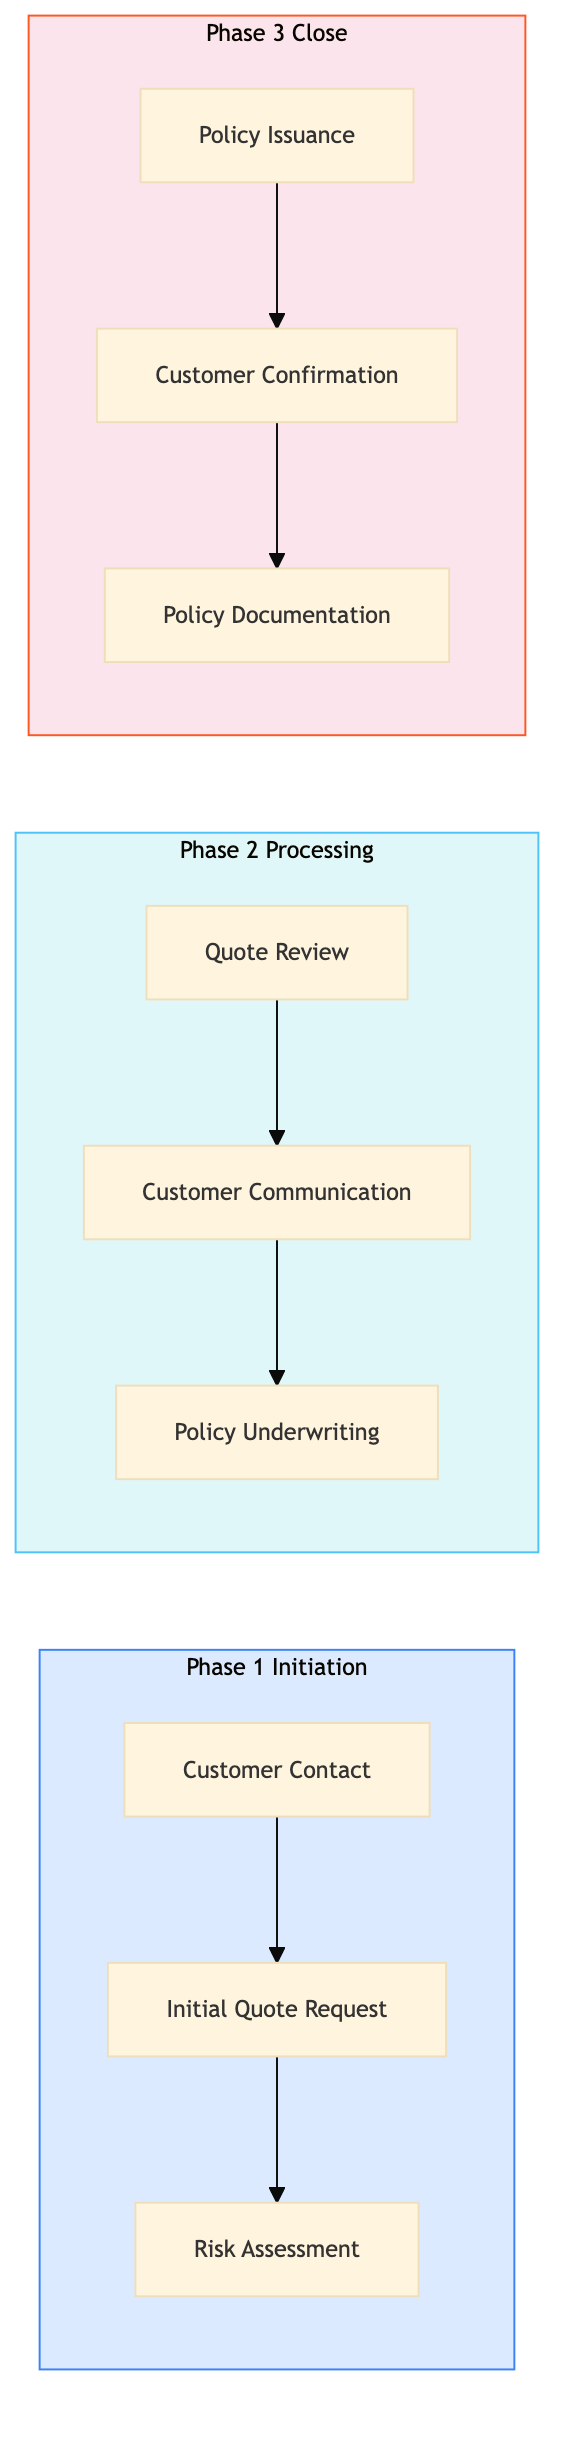
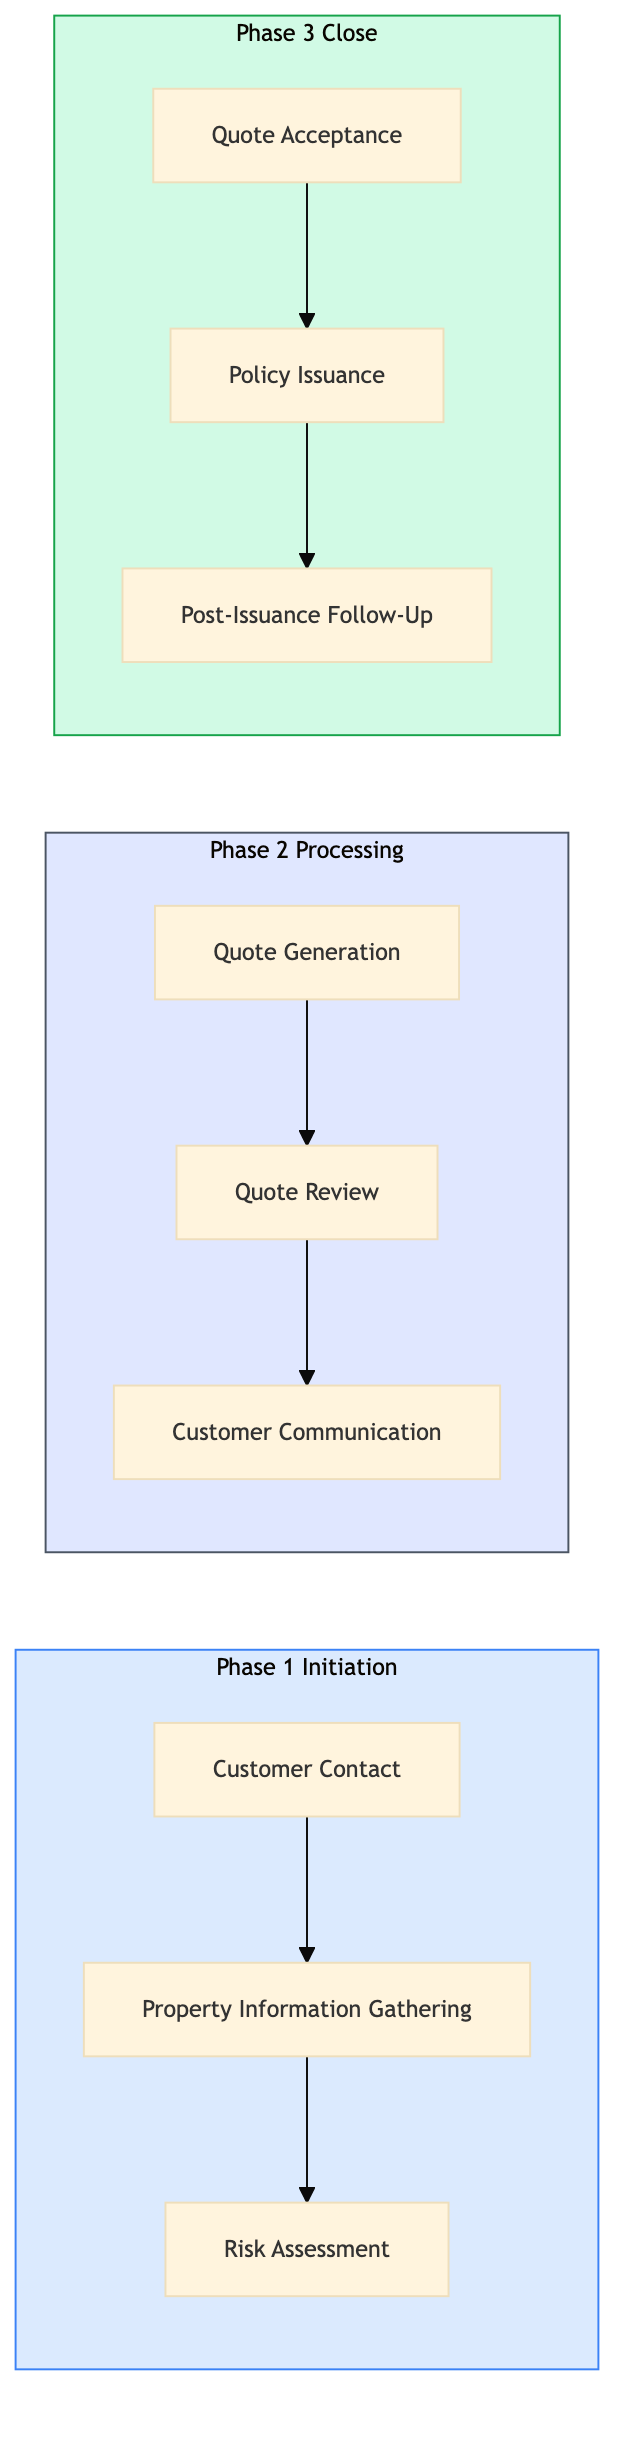
feat: add AAA-IN-QU-09 — Home Insurance Quote and Property Risk Assessment

diff --git a/aaa-insurance/insurance-quoting/aaa-in-qu-09.html b/aaa-insurance/insurance-quoting/aaa-in-qu-09.html
@@ -23,40 +23,16 @@
     <div class="nav-l2-group">
       <a class="nav-l2-title" href="../../shared-membership/membership-enrolment/index.html">Membership Enrolment & Sales</a>
       <div class="nav-l3-list">
-        <a class="nav-l3" href="../../shared-membership/membership-enrolment/shared-mb-en-01.html">SHARED-MB-EN-01 &mdash; New Member Walk-In Enrolment (Branch)</a>
-        <a class="nav-l3" href="../../shared-membership/membership-enrolment/shared-mb-en-02.html">SHARED-MB-EN-02 &mdash; Online Membership Self-Enrolment (Web/Ap</a>
-        <a class="nav-l3" href="../../shared-membership/membership-enrolment/shared-mb-en-03.html">SHARED-MB-EN-03 &mdash; Phone Enrolment via Contact Centre</a>
-        <a class="nav-l3" href="../../shared-membership/membership-enrolment/shared-mb-en-04.html">SHARED-MB-EN-04 &mdash; Affiliate and Employer Group Enrolment</a>
-        <a class="nav-l3" href="../../shared-membership/membership-enrolment/shared-mb-en-05.html">SHARED-MB-EN-05 &mdash; Membership Tier Selection and Upsell</a>
-        <a class="nav-l3" href="../../shared-membership/membership-enrolment/shared-mb-en-06.html">SHARED-MB-EN-06 &mdash; Payment Processing and First-Year Billin</a>
-        <a class="nav-l3" href="../../shared-membership/membership-enrolment/shared-mb-en-07.html">SHARED-MB-EN-07 &mdash; Welcome Kit and Digital Card Issuance</a>
-        <a class="nav-l3" href="../../shared-membership/membership-enrolment/shared-mb-en-08.html">SHARED-MB-EN-08 &mdash; Duplicate Member Detection and Merge</a>
       </div>
     </div>
     <div class="nav-l2-group">
       <a class="nav-l2-title" href="../../shared-membership/membership-renewal/index.html">Membership Renewal & Retention</a>
       <div class="nav-l3-list">
-        <a class="nav-l3" href="../../shared-membership/membership-renewal/shared-mb-rn-01.html">SHARED-MB-RN-01 &mdash; Annual Renewal Notice Generation and Dis</a>
-        <a class="nav-l3" href="../../shared-membership/membership-renewal/shared-mb-rn-02.html">SHARED-MB-RN-02 &mdash; Auto-Renewal Processing (Credit Card on </a>
-        <a class="nav-l3" href="../../shared-membership/membership-renewal/shared-mb-rn-03.html">SHARED-MB-RN-03 &mdash; Lapsed Member Reinstatement Campaign</a>
-        <a class="nav-l3" href="../../shared-membership/membership-renewal/shared-mb-rn-04.html">SHARED-MB-RN-04 &mdash; Membership Upgrade and Tier Change Proce</a>
-        <a class="nav-l3" href="../../shared-membership/membership-renewal/shared-mb-rn-05.html">SHARED-MB-RN-05 &mdash; Associate and Household Member Add-On Pr</a>
-        <a class="nav-l3" href="../../shared-membership/membership-renewal/shared-mb-rn-06.html">SHARED-MB-RN-06 &mdash; Cancellation Request Handling and Save O</a>
-        <a class="nav-l3" href="../../shared-membership/membership-renewal/shared-mb-rn-07.html">SHARED-MB-RN-07 &mdash; Renewal Rate Review and Pricing Update</a>
-        <a class="nav-l3" href="../../shared-membership/membership-renewal/shared-mb-rn-08.html">SHARED-MB-RN-08 &mdash; Membership Winback Campaign (12-36 Month</a>
       </div>
     </div>
     <div class="nav-l2-group">
       <a class="nav-l2-title" href="../../shared-membership/member-services/index.html">Member Services & Benefits</a>
       <div class="nav-l3-list">
-        <a class="nav-l3" href="../../shared-membership/member-services/shared-mb-sv-01.html">SHARED-MB-SV-01 &mdash; Member Discount Partner Redemption</a>
-        <a class="nav-l3" href="../../shared-membership/member-services/shared-mb-sv-02.html">SHARED-MB-SV-02 &mdash; Passport Photo Service Delivery (Branch)</a>
-        <a class="nav-l3" href="../../shared-membership/member-services/shared-mb-sv-03.html">SHARED-MB-SV-03 &mdash; International Driving Permit (IDP) Proce</a>
-        <a class="nav-l3" href="../../shared-membership/member-services/shared-mb-sv-04.html">SHARED-MB-SV-04 &mdash; Notary and Document Authentication Servi</a>
-        <a class="nav-l3" href="../../shared-membership/member-services/shared-mb-sv-05.html">SHARED-MB-SV-05 &mdash; Member Portal Profile and Preferences Ma</a>
-        <a class="nav-l3" href="../../shared-membership/member-services/shared-mb-sv-06.html">SHARED-MB-SV-06 &mdash; Lost and Stolen Membership Card Replacem</a>
-        <a class="nav-l3" href="../../shared-membership/member-services/shared-mb-sv-07.html">SHARED-MB-SV-07 &mdash; Member Data Privacy Request (CCPA and PI</a>
-        <a class="nav-l3" href="../../shared-membership/member-services/shared-mb-sv-08.html">SHARED-MB-SV-08 &mdash; Member Satisfaction Survey and NPS Track</a>
       </div>
     </div>
   </div>
@@ -286,7 +262,7 @@
           <span class="pid-badge org-badge-aaa">AAA</span>
           AAA-IN-QU-09 &mdash; Home Insurance Quote and Property Risk Assessment
         </h1>
-        <p>The Home Insurance Quote and Property Risk Assessment process involves gathering customer information, conducting risk assessments, generating quotes, and underwriting home insurance policies for AAA Northeast members.</p>
+        <p>The process for generating home insurance quotes and conducting property risk assessments for AAA Northeast.</p>
       </div>
 
       <!-- BPMN Diagram -->
@@ -313,9 +289,9 @@
             <tr><th>L2 Process</th><td>Quoting & Underwriting</td></tr>
             <tr><th>L3 Name</th><td>Home Insurance Quote and Property Risk Assessment</td></tr>
             <tr><th>Trigger</th><td>A customer contacts an AAA Northeast Licensed Insurance Agent to inquire about home insurance coverage.</td></tr>
-            <tr><th>Outcome</th><td>Successful completion produces a personalized home insurance quote with terms and conditions, ready for the customer's review and potential purchase.</td></tr>
-            <tr><th>Org Notes</th><td>AAA Northeast focuses on leveraging Guidewire Cloud for policy management and Salesforce for customer interactions. The process emphasizes quick turnaround times and high accuracy in risk assessment to meet customer expectations.</td></tr>
-            <tr><th>Systems</th><td><span class="sys-tag guidewire">Guidewire PolicyCenter</span> <span class="sys-tag salesforce">Salesforce</span> <span class="sys-tag verisk">Verisk ISO rating</span></td></tr>
+            <tr><th>Outcome</th><td>Successful completion produces a detailed home insurance quote, including premium rates and coverage details, as well as a property risk assessment report.</td></tr>
+            <tr><th>Org Notes</th><td>AAA Northeast focuses on providing comprehensive home insurance quotes with real-time data integration from various systems. The process is heavily reliant on Guidewire Cloud for quoting and underwriting, ensuring quick turnaround times and accurate assessments.</td></tr>
+            <tr><th>Systems</th><td><span class="sys-tag guidewire">Guidewire PolicyCenter</span> <span class="sys-tag salesforce">Salesforce (Einstein AI, Agentforce)</span> <span class="sys-tag verisk">Verisk ISO rating</span></td></tr>
           </table>
         </div>
       </div>
@@ -338,107 +314,107 @@
           <td class="step-num">1.1</td>
           <td>Customer Contact</td>
           <td>Licensed Insurance Agent</td>
-          <td><span class="sys-tag salesforce">Salesforce</span></td>
-          <td>Customer inquiry via phone or online chat</td>
-          <td>Customer contact record in Salesforce</td>
-          <td>Average response time to customer inquiries: 2 minutes</td>
-          <td>Handling multiple customer inquiries simultaneously</td>
+          <td><span class="sys-tag salesforce">Salesforce (Einstein AI)</span></td>
+          <td>Customer inquiry via phone, email, or online chat</td>
+          <td>Initial customer contact record in Salesforce</td>
+          <td>Response time to customer inquiries < 1 minute</td>
+          <td>Handling high volume of customer inquiries efficiently</td>
           <td>N</td>
           <td><span class="exception-y">Y</span></td>
         </tr>
         <tr>
           <td class="step-num">1.2</td>
-          <td>Initial Quote Request</td>
+          <td>Property Information Gathering</td>
           <td>Licensed Insurance Agent</td>
           <td><span class="sys-tag guidewire">Guidewire PolicyCenter</span></td>
-          <td>Customer details and property information from Salesforce</td>
-          <td>Preliminary quote with basic coverage options</td>
-          <td>Quote generation time: 5 minutes</td>
-          <td>Ensuring accurate data entry for risk assessment</td>
-          <td><span class="decision-y">Y</span></td>
+          <td>Customer property details (address, size, age, etc.)</td>
+          <td>Property profile in Guidewire PolicyCenter</td>
+          <td>Accuracy of property information > 95%</td>
+          <td>Ensuring accurate and complete property data entry</td>
           <td>N</td>
+          <td><span class="exception-y">Y</span></td>
         </tr>
         <tr>
           <td class="step-num">1.3</td>
           <td>Risk Assessment</td>
           <td>Underwriter</td>
           <td><span class="sys-tag verisk">Verisk ISO rating</span></td>
-          <td>Property details and customer information from Guidewire PolicyCenter</td>
-          <td>Detailed risk assessment report</td>
-          <td>Risk assessment completion time: 10 minutes</td>
-          <td>Accessing up-to-date property data for accurate assessments</td>
-          <td><span class="decision-y">Y</span></td>
+          <td>Property profile from Guidewire PolicyCenter</td>
+          <td>Risk assessment report</td>
+          <td>Completion of risk assessment within 5 minutes</td>
+          <td>Real-time data processing and integration with Verisk</td>
           <td>N</td>
+          <td><span class="exception-y">Y</span></td>
         </tr>
         <tr>
           <td class="step-num">2.1</td>
-          <td>Quote Review</td>
-          <td>Licensed Insurance Agent</td>
+          <td>Quote Generation</td>
+          <td>Underwriter</td>
           <td><span class="sys-tag guidewire">Guidewire PolicyCenter</span></td>
-          <td>Risk assessment report from Verisk ISO rating</td>
-          <td>Finalized quote with coverage details and premium</td>
-          <td>Quote review time: 3 minutes</td>
-          <td>Balancing customer needs with underwriting guidelines</td>
-          <td><span class="decision-y">Y</span></td>
+          <td>Risk assessment report</td>
+          <td>Home insurance quote</td>
+          <td>Accuracy of quote generation > 98%</td>
+          <td>Complexity in calculating premiums based on various risk factors</td>
           <td>N</td>
+          <td><span class="exception-y">Y</span></td>
         </tr>
         <tr>
           <td class="step-num">2.2</td>
-          <td>Customer Communication</td>
-          <td>Licensed Insurance Agent</td>
-          <td><span class="sys-tag salesforce">Salesforce</span></td>
-          <td>Finalized quote from Guidewire PolicyCenter</td>
-          <td>Quote sent to customer via email or SMS</td>
-          <td>Quote delivery time: 1 minute</td>
-          <td>Ensuring timely communication with customers</td>
-          <td>N</td>
-          <td><span class="exception-y">Y</span></td>
-        </tr>
-        <tr>
-          <td class="step-num">2.3</td>
-          <td>Policy Underwriting</td>
-          <td>Underwriter</td>
+          <td>Quote Review</td>
+          <td>Senior Underwriter</td>
           <td><span class="sys-tag guidewire">Guidewire PolicyCenter</span></td>
-          <td>Customer acceptance of quote via Salesforce</td>
-          <td>Underwritten policy document</td>
-          <td>Underwriting time: 15 minutes</td>
-          <td>Handling complex underwriting scenarios</td>
+          <td>Generated home insurance quote</td>
+          <td>Approved or revised quote</td>
+          <td>Quote review time < 10 minutes</td>
+          <td>Balancing speed and accuracy in quote reviews</td>
           <td><span class="decision-y">Y</span></td>
           <td>N</td>
         </tr>
         <tr>
-          <td class="step-num">3.1</td>
-          <td>Policy Issuance</td>
-          <td>Claims Adjuster</td>
-          <td><span class="sys-tag guidewire">Guidewire PolicyCenter</span></td>
-          <td>Underwritten policy document from Guidewire PolicyCenter</td>
-          <td>Issued policy with effective date and coverage limits</td>
-          <td>Policy issuance time: 5 minutes</td>
-          <td>Managing policy changes and updates</td>
+          <td class="step-num">2.3</td>
+          <td>Customer Communication</td>
+          <td>Licensed Insurance Agent</td>
+          <td><span class="sys-tag salesforce">Salesforce (Agentforce)</span></td>
+          <td>Approved home insurance quote</td>
+          <td>Quote communicated to customer</td>
+          <td>Customer satisfaction with quote communication > 85%</td>
+          <td>Explaining complex insurance terms and conditions</td>
           <td>N</td>
           <td><span class="exception-y">Y</span></td>
         </tr>
         <tr>
+          <td class="step-num">3.1</td>
+          <td>Quote Acceptance</td>
+          <td>Customer</td>
+          <td><span class="sys-tag guidewire">Guidewire PolicyCenter</span></td>
+          <td>Approved home insurance quote</td>
+          <td>Signed policy agreement</td>
+          <td>Quote acceptance rate > 70%</td>
+          <td>Customer decision-making process and satisfaction</td>
+          <td><span class="decision-y">Y</span></td>
+          <td>N</td>
+        </tr>
+        <tr>
           <td class="step-num">3.2</td>
-          <td>Customer Confirmation</td>
-          <td>Licensed Insurance Agent</td>
-          <td><span class="sys-tag salesforce">Salesforce</span></td>
-          <td>Issued policy from Guidewire PolicyCenter</td>
-          <td>Confirmation of policy issuance to customer</td>
-          <td>Confirmation time: 1 minute</td>
-          <td>Ensuring customer satisfaction with the final product</td>
+          <td>Policy Issuance</td>
+          <td>Underwriter</td>
+          <td><span class="sys-tag guidewire">Guidewire PolicyCenter</span></td>
+          <td>Signed policy agreement</td>
+          <td>Issued home insurance policy</td>
+          <td>Policy issuance time < 1 hour</td>
+          <td>Efficiently processing and issuing policies</td>
           <td>N</td>
           <td><span class="exception-y">Y</span></td>
         </tr>
         <tr>
           <td class="step-num">3.3</td>
-          <td>Policy Documentation</td>
-          <td>Claims Adjuster</td>
-          <td><span class="sys-tag guidewire">Guidewire PolicyCenter</span></td>
-          <td>Issued policy from Guidewire PolicyCenter</td>
-          <td>Complete policy documentation for record-keeping</td>
-          <td>Documentation time: 2 minutes</td>
-          <td>Maintaining accurate and secure records</td>
+          <td>Post-Issuance Follow-Up</td>
+          <td>Licensed Insurance Agent</td>
+          <td><span class="sys-tag salesforce">Salesforce (Agentforce)</span></td>
+          <td>Issued home insurance policy</td>
+          <td>Customer follow-up record</td>
+          <td>Follow-up response rate > 90%</td>
+          <td>Maintaining customer relationships post-policy issuance</td>
           <td>N</td>
           <td><span class="exception-y">Y</span></td>
         </tr>
@@ -453,9 +429,9 @@
         <div class="card-header">&#x1F4CA; KPIs &amp; Risk Register</div>
         <div class="card-body">
           <p class="mb-8"><strong>KPIs</strong></p>
-          <div class="kpi-list mb-8"><span class="kpi-pill">Average response time to customer inquiries: 2 minutes</span> <span class="kpi-pill">Quote generation time: 5 minutes</span> <span class="kpi-pill">Risk assessment completion time: 10 minutes</span> <span class="kpi-pill">Quote review time: 3 minutes</span> <span class="kpi-pill">Quote delivery time: 1 minute</span> <span class="kpi-pill">Underwriting time: 15 minutes</span> <span class="kpi-pill">Policy issuance time: 5 minutes</span> <span class="kpi-pill">Confirmation time: 1 minute</span> <span class="kpi-pill">Documentation time: 2 minutes</span></div>
+          <div class="kpi-list mb-8"><span class="kpi-pill">Response time to customer inquiries < 1 minute</span> <span class="kpi-pill">Accuracy of property information > 95%</span> <span class="kpi-pill">Completion of risk assessment within 5 minutes</span> <span class="kpi-pill">Accuracy of quote generation > 98%</span> <span class="kpi-pill">Quote review time < 10 minutes</span> <span class="kpi-pill">Customer satisfaction with quote communication > 85%</span> <span class="kpi-pill">Quote acceptance rate > 70%</span> <span class="kpi-pill">Policy issuance time < 1 hour</span> <span class="kpi-pill">Follow-up response rate > 90%</span></div>
           <p class="mb-8" style="margin-top:16px"><strong>Key Risks</strong></p>
-          <div class="kpi-list"><span class="risk-pill">Inaccurate data entry leading to incorrect risk assessments</span> <span class="risk-pill">Delays in communication with customers affecting quote acceptance rates</span> <span class="risk-pill">Complex underwriting scenarios requiring additional review time</span> <span class="risk-pill">Policy changes and updates causing delays in issuance</span> <span class="risk-pill">Maintaining secure records while ensuring customer privacy</span></div>
+          <div class="kpi-list"><span class="risk-pill">Inaccurate property data entry leading to incorrect risk assessments</span> <span class="risk-pill">Delays in quote generation due to system integration issues</span> <span class="risk-pill">Customer dissatisfaction with complex insurance terms and conditions</span> <span class="risk-pill">Efficiency challenges in processing a high volume of policy issuances</span> <span class="risk-pill">Maintaining customer relationships post-policy issuance</span></div>
         </div>
       </div>
 

diff --git a/aaa-insurance/insurance-quoting/index.html b/aaa-insurance/insurance-quoting/index.html
@@ -48,6 +48,7 @@
         <a class="nav-l3" href="../../aaa-insurance/insurance-quoting/aaa-in-qu-05.html">AAA-IN-QU-05 &mdash; ISO Rating Engine Calculation</a>
         <a class="nav-l3" href="../../aaa-insurance/insurance-quoting/aaa-in-qu-06.html">AAA-IN-QU-06 &mdash; Policy Comparison and Coverage Options P</a>
         <a class="nav-l3" href="../../aaa-insurance/insurance-quoting/aaa-in-qu-07.html">AAA-IN-QU-07 &mdash; Underwriting Rule Application and Referr</a>
+        <a class="nav-l3" href="../../aaa-insurance/insurance-quoting/aaa-in-qu-08.html">AAA-IN-QU-08 &mdash; Quote Bind Conversion and Application Su</a>
       </div>
     </div>
     <div class="nav-l2-group">
@@ -254,7 +255,7 @@
           <a href="../index.html">AAA Insurance</a>
         </div>
         <h1>🛡 Quoting & Underwriting</h1>
-        <p>7 of 10 processes complete</p>
+        <p>8 of 10 processes complete</p>
       </div>
       <div class="card">
         <div class="card-header">Process List</div>
@@ -268,7 +269,7 @@
 <tr><td><a href="aaa-in-qu-05.html">AAA-IN-QU-05</a></td><td>ISO Rating Engine Calculation</td><td><span style="color:#16a34a;font-weight:700">&#x2705; Complete</span></td></tr>
 <tr><td><a href="aaa-in-qu-06.html">AAA-IN-QU-06</a></td><td>Policy Comparison and Coverage Options Presentation</td><td><span style="color:#16a34a;font-weight:700">&#x2705; Complete</span></td></tr>
 <tr><td><a href="aaa-in-qu-07.html">AAA-IN-QU-07</a></td><td>Underwriting Rule Application and Referral Decision</td><td><span style="color:#16a34a;font-weight:700">&#x2705; Complete</span></td></tr>
-<tr><td>AAA-IN-QU-08</td><td>Quote Bind Conversion and Application Submission</td><td><span style="color:#94a3b8">&#x23F3; Queued</span></td></tr>
+<tr><td><a href="aaa-in-qu-08.html">AAA-IN-QU-08</a></td><td>Quote Bind Conversion and Application Submission</td><td><span style="color:#16a34a;font-weight:700">&#x2705; Complete</span></td></tr>
 <tr><td>AAA-IN-QU-09</td><td>Home Insurance Quote and Property Risk Assessment</td><td><span style="color:#94a3b8">&#x23F3; Queued</span></td></tr>
 <tr><td>AAA-IN-QU-10</td><td>Multi-Policy Discount Calculation and Bundling</td><td><span style="color:#94a3b8">&#x23F3; Queued</span></td></tr>
 </tbody>

diff --git a/index.html b/index.html
@@ -48,6 +48,7 @@
         <a class="nav-l3" href="aaa-insurance/insurance-quoting/aaa-in-qu-05.html">AAA-IN-QU-05 &mdash; ISO Rating Engine Calculation</a>
         <a class="nav-l3" href="aaa-insurance/insurance-quoting/aaa-in-qu-06.html">AAA-IN-QU-06 &mdash; Policy Comparison and Coverage Options P</a>
         <a class="nav-l3" href="aaa-insurance/insurance-quoting/aaa-in-qu-07.html">AAA-IN-QU-07 &mdash; Underwriting Rule Application and Referr</a>
+        <a class="nav-l3" href="aaa-insurance/insurance-quoting/aaa-in-qu-08.html">AAA-IN-QU-08 &mdash; Quote Bind Conversion and Application Su</a>
       </div>
     </div>
     <div class="nav-l2-group">
@@ -254,9 +255,9 @@
       </div>
 
       <div class="stats-bar">
-        <div class="stat-card"><div class="stat-num">7</div><div class="stat-label">Processes Complete</div></div>
+        <div class="stat-card"><div class="stat-num">8</div><div class="stat-label">Processes Complete</div></div>
         <div class="stat-card"><div class="stat-num">268</div><div class="stat-label">Total Processes</div></div>
-        <div class="stat-card"><div class="stat-num">7</div><div class="stat-label">AAA Complete</div></div>
+        <div class="stat-card"><div class="stat-num">8</div><div class="stat-label">AAA Complete</div></div>
         <div class="stat-card"><div class="stat-num caa-red">0</div><div class="stat-label">CAA Complete</div></div>
         <div class="stat-card"><div class="stat-num">0</div><div class="stat-label">Shared Complete</div></div>
       </div>
@@ -276,7 +277,7 @@
         <span class="nav-org-dot aaa" style="display:inline-block;margin-right:4px"></span>
         AAA
       </p>
-      <p class="card-count">7 / 34 processes complete</p>
+      <p class="card-count">8 / 34 processes complete</p>
     </div>
     <div class="domain-card org-caa">
       <h3><a href="caa-insurance/index.html">🍁 CAA Insurance (Ontario)</a></h3>

diff --git a/aaa-insurance/index.html b/aaa-insurance/index.html
@@ -48,6 +48,7 @@
         <a class="nav-l3" href="../aaa-insurance/insurance-quoting/aaa-in-qu-05.html">AAA-IN-QU-05 &mdash; ISO Rating Engine Calculation</a>
         <a class="nav-l3" href="../aaa-insurance/insurance-quoting/aaa-in-qu-06.html">AAA-IN-QU-06 &mdash; Policy Comparison and Coverage Options P</a>
         <a class="nav-l3" href="../aaa-insurance/insurance-quoting/aaa-in-qu-07.html">AAA-IN-QU-07 &mdash; Underwriting Rule Application and Referr</a>
+        <a class="nav-l3" href="../aaa-insurance/insurance-quoting/aaa-in-qu-08.html">AAA-IN-QU-08 &mdash; Quote Bind Conversion and Application Su</a>
       </div>
     </div>
     <div class="nav-l2-group">
@@ -251,11 +252,11 @@
       <div class="page-header">
         <div class="breadcrumb"><a href="../index.html">Home</a></div>
         <h1>🛡 AAA Insurance</h1>
-        <p>7 of 34 processes complete across 4 process groups</p>
+        <p>8 of 34 processes complete across 4 process groups</p>
       </div>
       <div class="domain-grid">    <div class="domain-card org-aaa">
       <h3><a href="insurance-quoting/index.html">Quoting & Underwriting</a></h3>
-      <p class="card-meta">7/10 processes complete</p>
+      <p class="card-meta">8/10 processes complete</p>
     </div>
     <div class="domain-card org-aaa">
       <h3><a href="policy-administration/index.html">Policy Administration</a></h3>
